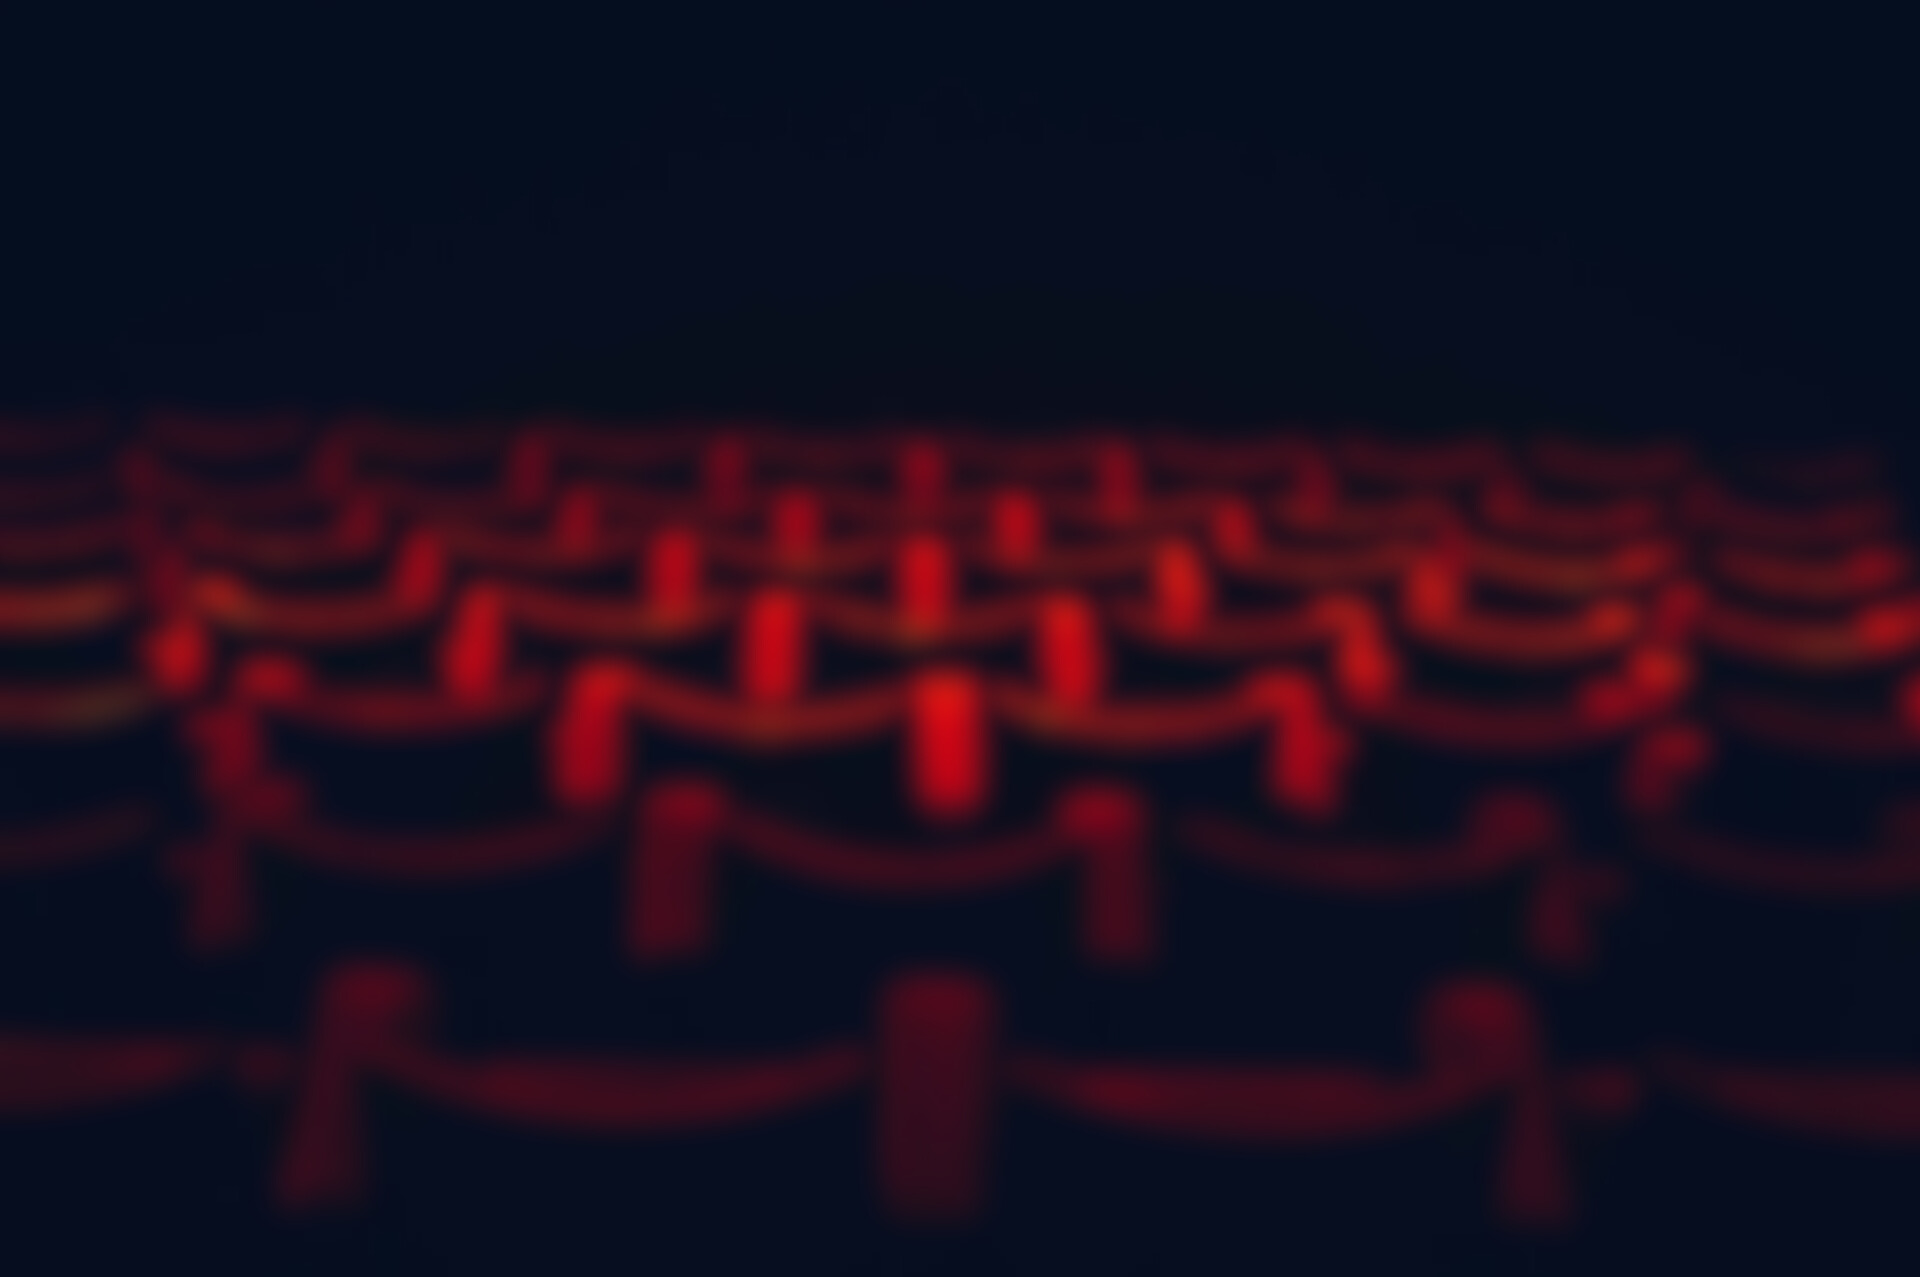
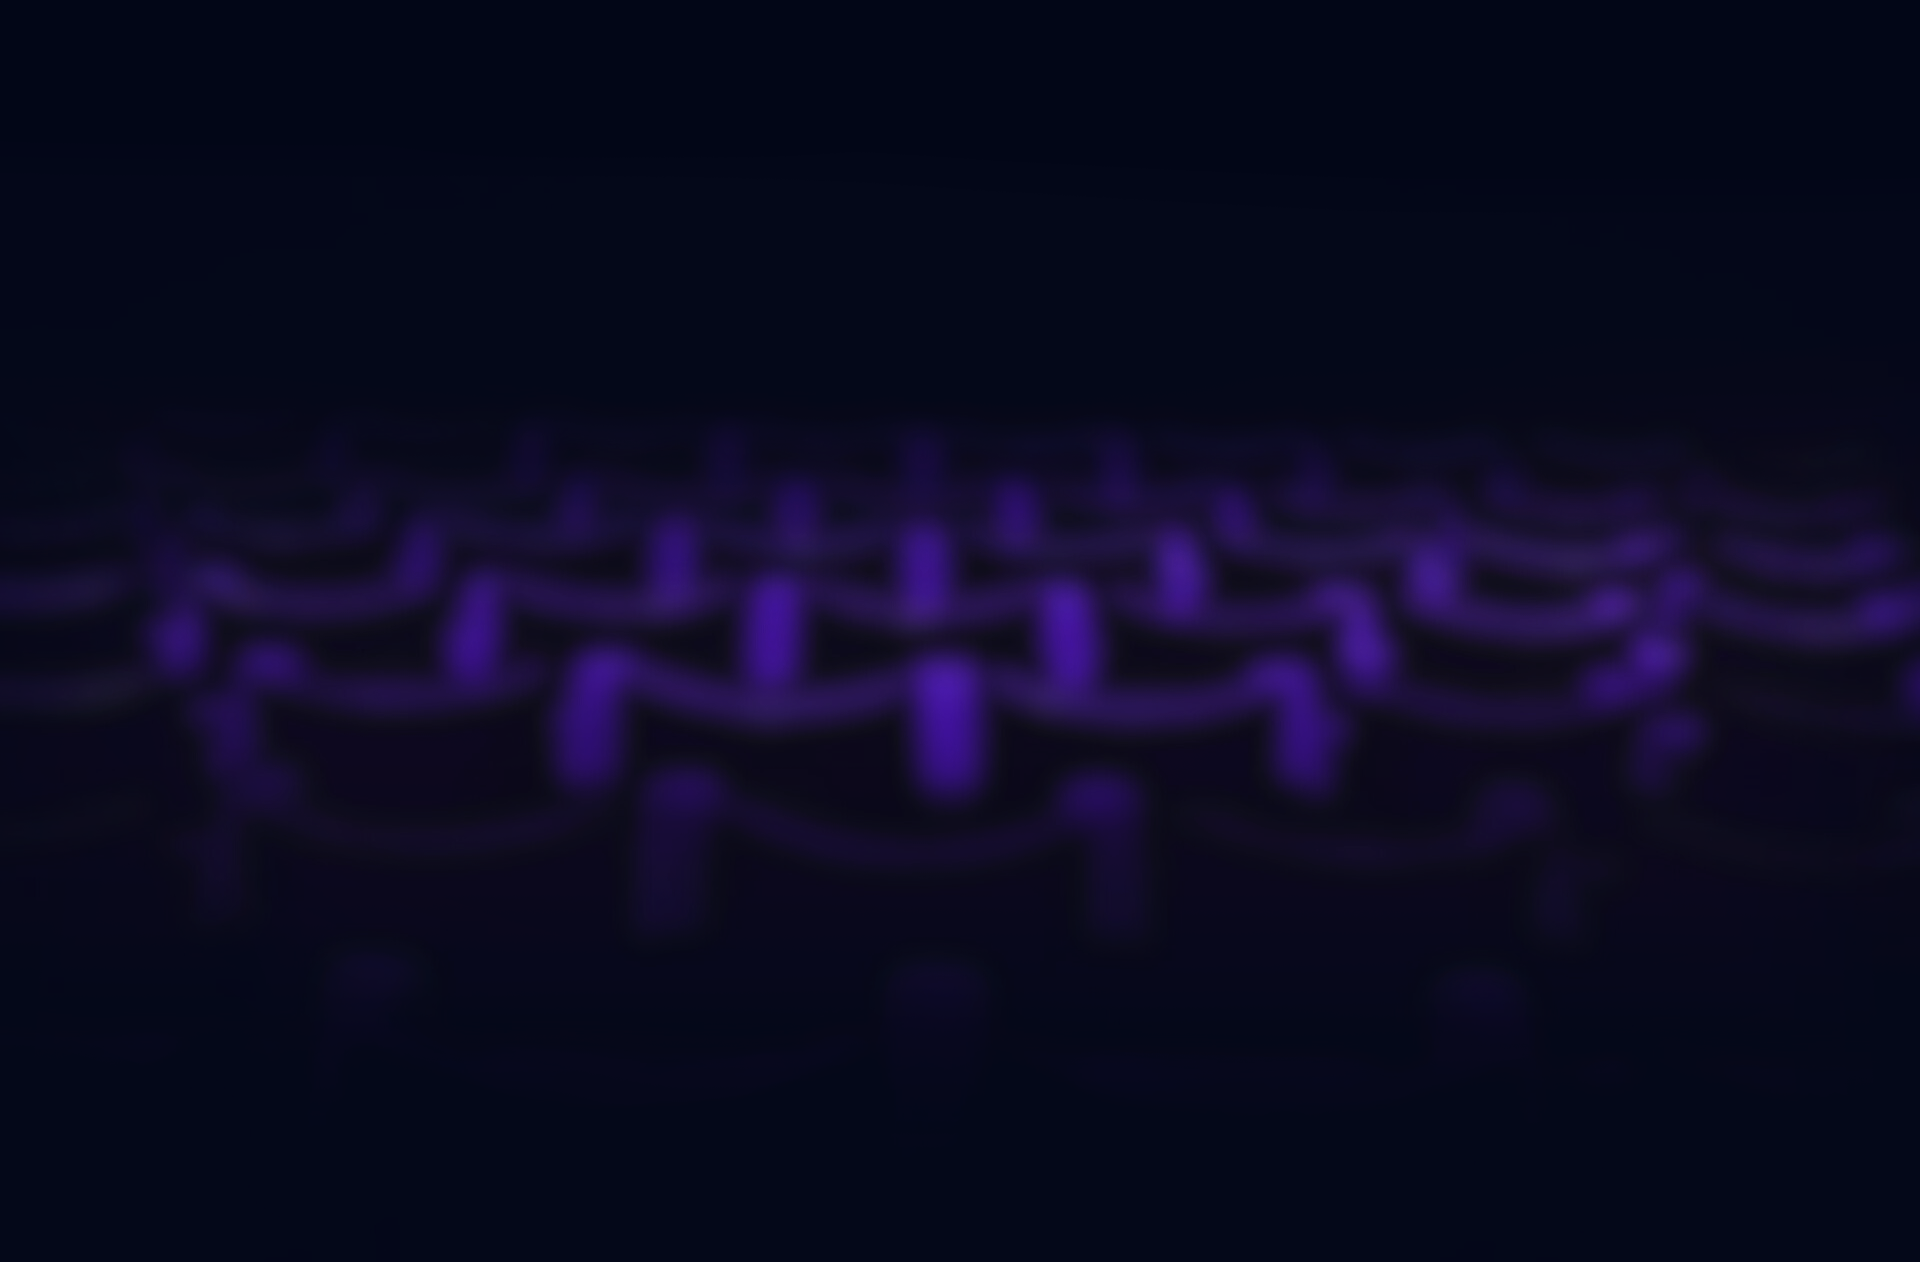
Merge pull request #14 from HumbertoGaldino/update-discover
Update layout discover page

Pull request: Update layout discover page

Changed region(s): [[0.0, 0.309, 1.0, 0.7726], [0.0, 0.7417, 1.0, 0.958], [0.9688, 0.649, 1.0, 0.7108]]

diff --git a/app/discover/page.tsx b/app/discover/page.tsx
@@ -1,7 +1,8 @@
-import Image from "next/image";
-import SeeAllButton from "@/src/components/SeeAllButton/SeeAllButton";
 import { Bebas_Neue } from "next/font/google";
 import { Athiti } from "next/font/google";
+import { GiCompass } from "react-icons/gi";
+import { MdLocalMovies } from "react-icons/md";
+import { TbDeviceTvOldFilled } from "react-icons/tb";
 import DiscoverFocusCards from "@/src/components/DiscoverFocusCards/DiscoverFocusCards";
 const athiti = Athiti({ subsets: ["latin"], weight: ["400"] });
 
@@ -13,74 +14,32 @@ const bebasNeue = Bebas_Neue({
 export default function Discover() {
   return (
     <main className="w-full min-h-screen h-full flex flex-col items-center bg-discover bg-repeat bg-top">
-      <div className="flex flex-col items-center justify-center gap-6 mt-20 mb-40 z-10">
-        <Image src="/bussola.png" alt="bussola" width={100} height={100} />
+      <div className="flex flex-col items-center justify-center gap-6 mt-20 lg-max:mb-30 3xl:mb-40 z-10">
+        <GiCompass className="lg-max:w-[70px] lg-max:h-[70px] 3xl:w-[100px] 3xl:h-[100px] text-[#6b41b6]" />
         <h1
-          className={`${bebasNeue.className} text-purple text-[5.6em] tracking-[0.6em] mr-[-0.6em]`}
+          className={`${bebasNeue.className} text-[#6b41b6] lg-max:text-[3.6em] lg-max:tracking-[0.4em] lg-max:mr-[-0.4em] 3xl:text-[5.6em] 3xl:tracking-[0.6em] 3xl:mr-[-0.6em]`}
         >
           EXPLORAR
         </h1>
-        <div className="relative mt-10">
-          <input
-            type="text"
-            placeholder="PESQUISAR TÍTULOS"
-            className={`${athiti.className} w-[51rem] text-[1.5em] tracking-[0.3em] px-4 py-2 rounded-full text-center border-2 border-purple focus:border-white bg-gray-700 text-white focus:outline-none`}
-            aria-label="Search User"
-            tabIndex={0}
-          />
-          <button
-            className="absolute right-2 top-1/2 transform -translate-y-1/2 bg-purple-600 text-white rounded-full p-2 hover:bg-purple transition-colors duration-300"
-            aria-label="Search"
-            tabIndex={0}
-          >
-            <svg
-              className="w-5 h-5"
-              fill="none"
-              stroke="white"
-              viewBox="0 0 24 24"
-              xmlns="http://www.w3.org/2000/svg"
-            >
-              <path
-                strokeLinecap="round"
-                strokeLinejoin="round"
-                strokeWidth={2}
-                d="M21 21l-4.35-4.35M16.5 10.5A6 6 0 1110.5 4.5a6 6 0 016 6z"
-              />
-            </svg>
-          </button>
-        </div>
       </div>
       <div className="w-[80%] flex flex-col items-center justify-center gap-6 mt-20">
         <h2
-          className={`${bebasNeue.className} relative bg-white rounded-3xl rounded-tr-none bg-opacity-70 h-[5.5rem] pl-8 text-purple text-[4em] tracking-[0.3em] mb-10 `}
+          className={`${bebasNeue.className} w-full flex flex-row bg-opacity-70 text-[#6b41b6] 3xl:text-[4em] 3xl:tracking-[0.3em] 3xl:mb-10 lg-max:text-[2em] lg-max:tracking-[0.3em] lg-max:mb-8 border-b-4 border-[#6b41b6]`}
         >
-          <Image
-            src="/clapperboard.png"
-            className="absolute top-[-3rem] left-[-4rem] z-10"
-            width={100}
-            height={100}
-            alt="Clapperboard"
-          />
-          FILMES - LANÇAMENTOS
+          <MdLocalMovies className="mt-1 mr-3"/>
+          Tendências em Filmes
         </h2>
         <DiscoverFocusCards type="movie" />
-        <SeeAllButton />
       </div>
+
       <div className="w-[80%] flex flex-col items-center justify-center gap-6 mt-20 mb-40">
         <h2
-          className={`${bebasNeue.className} relative bg-white rounded-3xl rounded-tr-none bg-opacity-70 h-[5.5rem] pl-8 text-purple text-[4em] tracking-[0.3em] mb-10`}
+          className={`${bebasNeue.className} w-full flex flex-row bg-opacity-70 text-[#6b41b6] 3xl:text-[4em] 3xl:tracking-[0.3em] 3xl:mb-10 lg-max:text-[2em] lg-max:tracking-[0.3em] lg-max:mb-8 border-b-4 border-[#6b41b6]`}
         >
-          <Image
-            src="/clapperboard.png"
-            className="absolute top-[-3rem] left-[-4rem] z-10"
-            width={100}
-            height={100}
-            alt="Clapperboard"
-          />
-          SÉRIES - LANÇAMENTOS
+          <TbDeviceTvOldFilled className="mt-1 mr-3"/>
+          Tendências em Séries
         </h2>
         <DiscoverFocusCards type="tv" />
-        <SeeAllButton />
       </div>
     </main>
   );

diff --git a/tailwind.config.ts b/tailwind.config.ts
@@ -17,7 +17,7 @@ export default {
     extend: {
       boxShadow: {
         input: `0px 2px 3px -1px rgba(0,0,0,0.1), 0px 1px 0px 0px rgba(25,28,33,0.02), 0px 0px 0px 1px rgba(25,28,33,0.08)`,
-      },
+      },      
       colors: {
         purple: "#6741B9",
         background: "var(--background)",
@@ -27,14 +27,24 @@ export default {
       backgroundImage: {
         discover: "url(/discover-bg.png)",
       },
+      screens: {
+        'sm-min': '480px',
+        'sm': '560px',
+        'sm-max': '680px',
+        'md': '820px',
+        'lg': '1070px',
+        'lg-max': '1170px',
+        '3xl': '1720px',
+        'footer-2xl': "1400px"
+      },
     },
   },
   plugins: [addVariablesForColors],
 } satisfies Config;
 
 function addVariablesForColors({ addBase, theme }: any) {
-  let allColors = flattenColorPalette(theme("colors"));
-  let newVars = Object.fromEntries(
+  const allColors = flattenColorPalette(theme("colors"));
+  const newVars = Object.fromEntries(
     Object.entries(allColors).map(([key, val]) => [`--${key}`, val]),
   );
 

diff --git a/src/components/AsideMenu/AsideMenu.tsx b/src/components/AsideMenu/AsideMenu.tsx
@@ -18,7 +18,7 @@ export default function AsideMenu() {
       label: t("profile"),
       href: "/profile",
       icon: (
-        <IconUserBolt className="text-neutral-700 dark:text-neutral-200 h-5 w-5 flex-shrink-0" />
+        <IconUserBolt className="text-neutral-200 h-5 w-5 flex-shrink-0" />
       ),
     },
     {
@@ -32,21 +32,21 @@ export default function AsideMenu() {
       label: t("settings"),
       href: "/profile/settings",
       icon: (
-        <IconSettings className="text-neutral-700 dark:text-neutral-200 h-5 w-5 flex-shrink-0" />
+        <IconSettings className="text-neutral-200 h-5 w-5 flex-shrink-0" />
       ),
     },
     {
       label: t("logout"),
       href: "#",
       icon: (
-        <IconArrowLeft className="text-neutral-700 dark:text-neutral-200 h-5 w-5 flex-shrink-0" />
+        <IconArrowLeft className="text-neutral-200 h-5 w-5 flex-shrink-0" />
       ),
     },
   ];
 
   return (
-    <div className="w-0 mr-[10vw]">
-      <aside className="fixed flex flex-col gap-3 bg-slate-900 w-[10vw] h-screen p-4">
+    <div className="w-0 lg-max:mr-[12vw] 3xl:mr-[10vw]">
+      <aside className="fixed flex flex-col gap-3 bg-slate-900 lg-max:mr-[12vw] 3xl:w-[10vw] h-screen p-4">
         <Image
           src="/logo.svg"
           width={80}

diff --git a/src/components/ui/focus-cards.tsx b/src/components/ui/focus-cards.tsx
@@ -27,7 +27,7 @@ export const Card = React.memo(
       onMouseEnter={() => setHovered(index)}
       onMouseLeave={() => setHovered(null)}
       className={cn(
-        "rounded-lg relative cursor-pointer bg-gray-100 dark:bg-neutral-900 overflow-hidden w-[14rem] h-[22rem] transition-all duration-300 ease-out",
+        "rounded-lg relative cursor-pointer bg-neutral-900 overflow-hidden lg-max:w-[10rem] lg-max:h-[16rem] 3xl:w-[14rem] 3xl:h-[22rem] transition-all duration-300 ease-out",
         hovered !== null && hovered !== index && "blur-sm scale-[0.98]"
       )}
     >
@@ -57,7 +57,7 @@ export function FocusCards({ cards, type }: { cards: CardProps[]; type: string }
   const [hovered, setHovered] = useState<number | null>(null);
 
   return (
-    <div className="flex items-center justify-center flex-wrap gap-10 w-full">
+    <div className="flex items-center justify-center flex-wrap lg-max:gap-5 3xl:gap-10 w-full">
       {cards.map((card, index) => {
         return (
           <Card

diff --git a/app/actions/fetchDiscoverMovies.ts b/app/actions/fetchDiscoverMovies.ts
@@ -5,7 +5,7 @@ export async function fetchDiscoverMovies(
   lang: string = "pt-BR"
 ) {
   const response = await fetch(
-    `https://api.themoviedb.org/3/discover/movie?api_key=${process.env.TMDB_API_KEY}&language=${lang}&page=${page}`,
+    `https://api.themoviedb.org/3/trending/movie/day?api_key=${process.env.TMDB_API_KEY}&language=${lang}&page=${page}`,
     {
       method: "GET",
     }

diff --git a/app/actions/fetchDiscoverTvShows.ts b/app/actions/fetchDiscoverTvShows.ts
@@ -5,7 +5,7 @@ export async function fetchDiscoverTvShows(
   lang: string = "pt-BR"
 ) {
   const response = await fetch(
-    `https://api.themoviedb.org/3/discover/tv?api_key=${process.env.TMDB_API_KEY}&language=${lang}&page=${page}`,
+    `https://api.themoviedb.org/3/trending/tv/day?api_key=${process.env.TMDB_API_KEY}&language=${lang}&page=${page}`,
     {
       method: "GET",
     }

diff --git a/src/components/Footer/Footer.tsx b/src/components/Footer/Footer.tsx
@@ -1,6 +1,6 @@
 export default function Footer() {
   return (
-    <footer className="text-white bg-slate-900">
+    <footer className="text-white bg-slate-950">
       {/* <div className="flex flex-row justify-evenly items-center gap-8 p-10">
         <nav className="flex flex-col">
           <a href="#">Link 1</a>